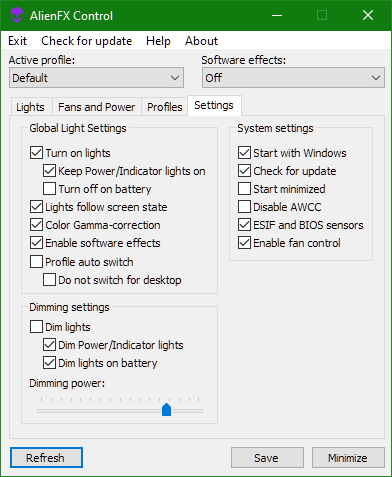
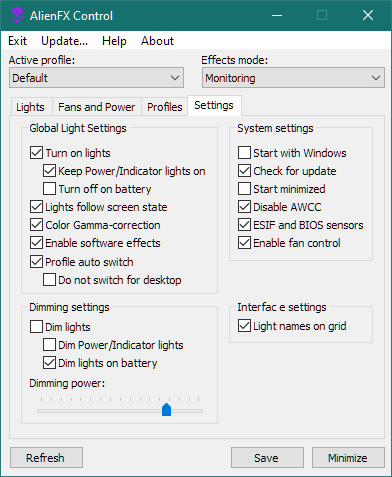
6.4.3 release preparation

diff --git a/Doc/alienfx-cli.md b/Doc/alienfx-cli.md
@@ -17,10 +17,10 @@ The following commands are available:
 - `set-zone-action=<action>,<zone>,r,g,b[,br,r,g,b[,br]]` Set zone light to color provided and enable action.
 - `set-power=<dev>,<light>,r,g,b,r,g,b` Set light as a hardware power button. First color for AC, 2nd for battery power. This command only works with low-level API.
 - `set-tempo=<tempo>` Set next action tempo (in milliseconds).
-- `set-global=<dev>,<mode>,r,g,b,r,g,b` Set global effect mode (v5 devices only)
+- `set-global=<dev>,<type>,<mode>,r,g,b,r2,g2,b2` Set global effect mode (v5, v8, v9 devices)
 - `set-dim=<dev>,brightness` Set active device hardware brightness (dimming) level (from 0 to 255, low-level and API v4-v5 only).
-- `lightson` Turn all current device lights on.
-- `lightsoff` Turn all current device lights off.
+- `lightson` Turn all lights on.
+- `lightsoff` Turn all lights off.
 - `reset` Reset current device.
 - `low-level` Next commands pass trough low-level API (USB driver) instead of high-level.
 - `high-level` Next commands pass trough high-level API (Alienware LightFX), if it's available.
@@ -28,7 +28,12 @@ The following commands are available:
 - `probe[=-a|=<lights>]` Probe light devices present into the system and set devices and light names.
 
 Supported Zones: `left, right, top, bottom, front, rear` for high-level, any group ID (see in `status`) for low-level. 
-Supported Actions: `pulse, morph (you need 2 colors for morph), color (disable action)`. For APIv4 devices, `breath, spectrum, rainbow` also supported. APIv5 not supported.
+Supported Actions: `pulse, morph (you need 2 colors for morph), color (disable action)`. For APIv4 and APIv9 devices, `breath, spectrum, rainbow` also supported. APIv5 not supported.  
+Supported global effect types:  
+For APIv5 - 0 - Color(off), 2 - Breathing, 3 - Single-color Wave, 4 - Dual-color Wave, 8 - Pulse, 9 -Mixed Pulse, 10 - Night Rider, 11 - Laser.  
+For APIv9 - 0 - Black(Off), 1 - Morph, 2- Pulse, 3 - Back morph, 7 - Breath, 8 - Rainbow, 15 - Wave, 16 - Rainbow wave, 17 - Circle wave, 19 - Reset to firmware default.  
+Supported global effect modes (APIv9 only): 1 - Permanent effect, 2 - On key press only.
+
 
 For `probe` command, `a` for show additional device info, `l` for define number of lights, `d` for deviceID and (optionally) lightid. Can be combined or absent.  
 By default, first 23 lights (or 136 for keyboard devices) for all devices will be checked.

diff --git a/Doc/alienfx-gui.md b/Doc/alienfx-gui.md
@@ -218,7 +218,7 @@ Both Power button and indicators can be configured in settings to stay on then t
 "Highlight" button defines the color will be used for currently selected light - both for light grid and for physical light.  
 Other assigned lights will have random colors at grid and black color for physical lights.
 
-"Light names on grid" enables/disables printing of the light name over grid button. It's useful to check all lights position.
+"Key" button provide dialog window to select current light name by pressing any keyboard key. It's also will be done automatically in case per-key RGB device active.
 
 Then you find light position at you physical device (it's highlighted), assign it to the grid - click or click-and drag at grid zone to do it.  
 Click again to remove grid sell from current light, right-click (or click-and-drag) to clear grid cell(s).  
@@ -280,7 +280,7 @@ Each profile can have settings and application for trigger it. The settings are:
 - "Dim lights" - Then profile activated, all lights will be dimmed.
 - "Fan settings" - If selected, profile also keep fan control settings and restore it then activated.
 
-"Global effects" only works for APIv5 (RGB keyboard) devices, select corresponding effect type ("Global") to enable this block.
+"Global effects" only supported for APIv5, v8, v9 (RGB keyboard devices), select corresponding effect type ("Global") to start global effect then profile activated. Please keep in mind - enabled global effects will block any other color changes for device!
 
 The next block is "Triggers" - it define cases app should switch to this profile if "Profile auto switch" turned on at "Settings".
 - "Keyboard" drop down will activate this profile in case corresponding key is pressed. Release the key to switch back to other profile.  
@@ -327,6 +327,10 @@ Light dimming control at bottom:
   - "Dim Power/Indicator lights" - Power Button and Indicator lights will be dimmed as well - and have full brightness otherwise (default - off).
   - "Dim lights on battery" - Dim lights if system running at battery power, decreasing energy usage. Returns to full brightness if AC connected (default - on).
 - "Dimming power" - Brightness decrease level for dimming. Values can be from 0 to 255, default is 92.
+
+Interface settings:
+- "Light names on grid" - Shows/hide light name printing at grid buttons.
+
 
 ## Keyboard shortcuts 
 
